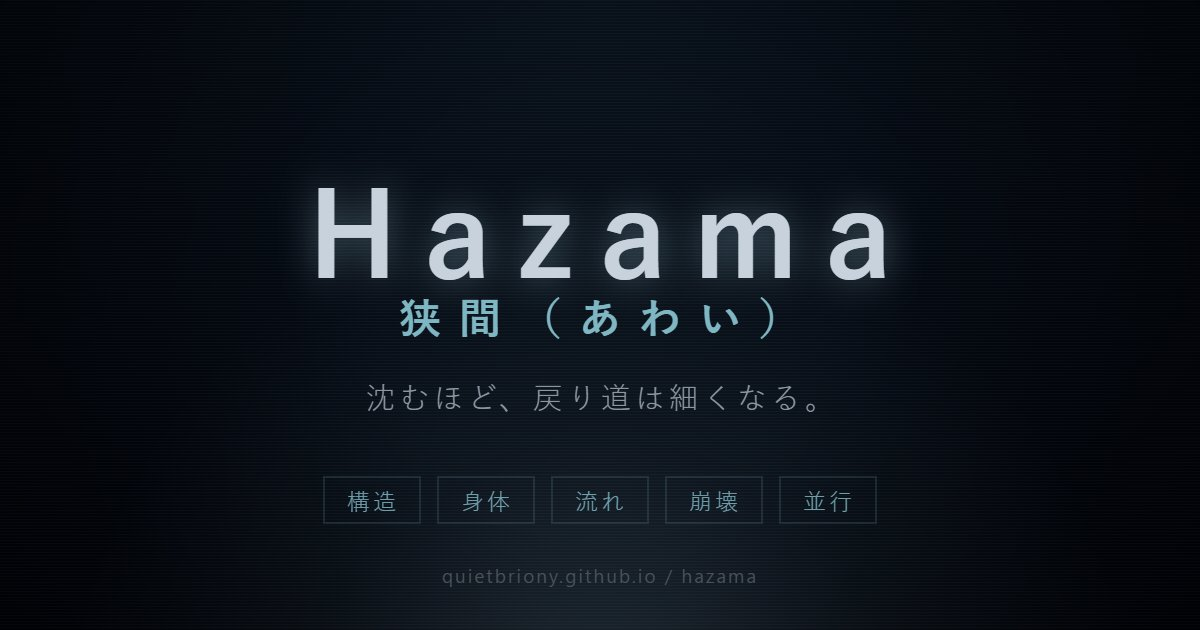
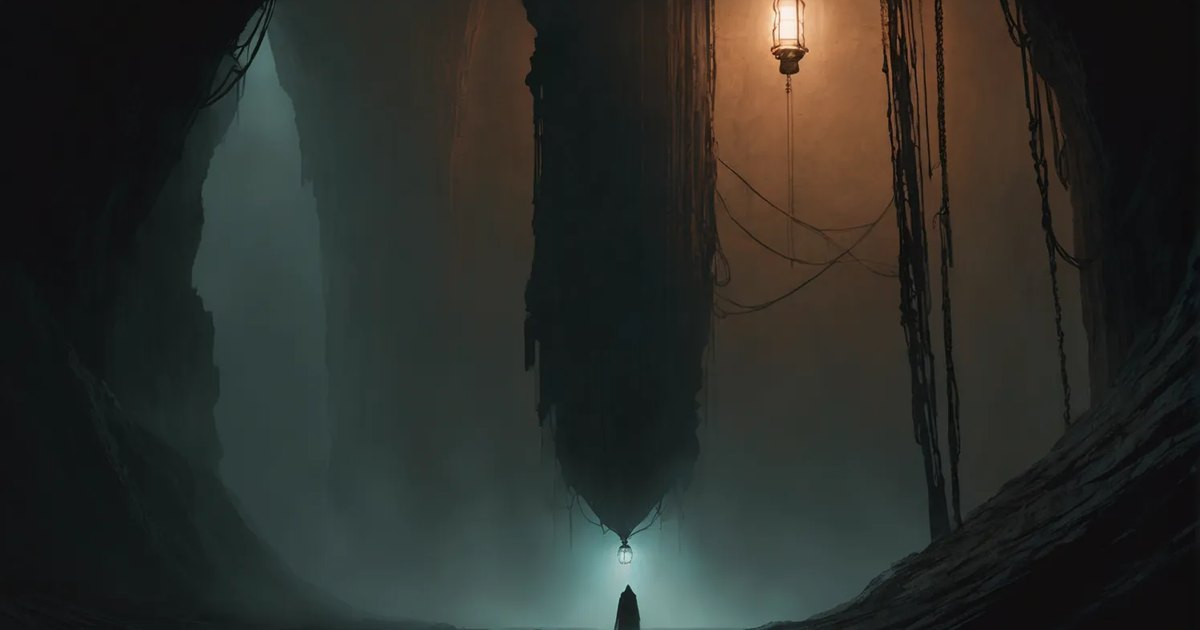
E30: OG 堅牢化＋E29 docs 追随（README 沿革/ledger/QA F37）
- og:image 先頭を 1200×630 JPG（assets/og-card.jpg・og:image:width/height 宣言）に
  ＝webp を読まない WhatsApp/旧クライアントでの共有プレビュー欠落を防ぐ（研究で特定した穴）。
  webp/png は後続フォールバック併記・twitter:image も og-card に。
- og-card.jpg を E29 hero(seed123) から再生成（旧 figurative 由来の stale を解消・LP と共有）。
- version e29→e30 四点同期・smoke E30 契約5件（og-card 実体/参照/寸法宣言/先頭順序）。
- docs 追随: README 構成+沿革（E29/E30）・SESSION-LEDGER 先頭・QA 正典 F37（降下の弧・37機能に）。

runtime 挙動不変（meta と docs のみ）。smoke 2 PASS / 0 FAIL。push は号令待ち。

diff --git a/index.html b/index.html
@@ -15,13 +15,19 @@
   <meta property="og:title" content="Hazama 狭間" />
   <meta property="og:description" content="沈むほど戻りにくい。認識が合う者だけがΩへ潜る、没入の降下対話。" />
   <meta property="og:url" content="https://quietbriony.github.io/hazama/" />
+  <!-- E30: 先頭は 1200×630 JPG（og-card・width/height 宣言）＝webp を読まない WhatsApp/旧クライアントでも
+       欠落しない。二枚目に hero webp、最後に png（icon-512）。LP と同じ og-card を共有（中身は E29 hero 由来）。 -->
+  <meta property="og:image" content="https://quietbriony.github.io/hazama/assets/og-card.jpg" />
+  <meta property="og:image:width" content="1200" />
+  <meta property="og:image:height" content="630" />
   <meta property="og:image" content="https://quietbriony.github.io/hazama/assets/hazama-descent-key.webp" />
   <meta property="og:image" content="https://quietbriony.github.io/hazama/icons/icon-512.png" />
   <meta name="twitter:card" content="summary_large_image" />
+  <meta name="twitter:image" content="https://quietbriony.github.io/hazama/assets/og-card.jpg" />
   <link rel="manifest" href="manifest.webmanifest" />
   <link rel="apple-touch-icon" href="icons/apple-touch-icon.png" />
   <link rel="icon" type="image/png" sizes="192x192" href="icons/icon-192.png" />
-  <link rel="stylesheet" href="slice.css?v=e29" />
+  <link rel="stylesheet" href="slice.css?v=e30" />
 </head>
 <body data-phase="surface">
   <div class="hz-bg" aria-hidden="true">
@@ -86,6 +92,6 @@
     </div>
   </div>
 
-  <script src="slice.js?v=e29"></script>
+  <script src="slice.js?v=e30"></script>
 </body>
 </html>

diff --git a/slice.js b/slice.js
@@ -2104,7 +2104,7 @@
 
   // ---------- 起動 ----------
   async function loadData() {
-    const res = await fetch("depths-shell.json?v=e29", { cache: "no-store" });
+    const res = await fetch("depths-shell.json?v=e30", { cache: "no-store" });
     DATA = await res.json();
   }
   // ---------- 動く表紙（R6：タイトルも state/seed に応じて動く・静止でない） ----------

diff --git a/sw.js b/sw.js
@@ -6,7 +6,7 @@
    - cache prefix=hazama-pwa- ＝旧 forward 版 cache(hazama-pwa-v2.45 等)を activate で掃除し更新。
 ========================================================= */
 
-const VERSION = "hazama-pwa-e29";
+const VERSION = "hazama-pwa-e30";
 const CACHE_PREFIX = "hazama-pwa-";
 const STATIC_CACHE = `${VERSION}-static`;
 const RUNTIME_CACHE = `${VERSION}-runtime`;

diff --git a/docs/autonomy/SESSION-LEDGER.md b/docs/autonomy/SESSION-LEDGER.md
@@ -19,6 +19,24 @@ Hazama 自律開発 session の追記専用ログ。
 
 ---
 
+## 2026-07-21 — 進化 E29 デプロイ済＋hotfix / E30 OG 堅牢化（実装/検証済み・号令待ち）
+- agent      : Fable（worker のローカル AI 画像工房を構築し「展開に合わせてキービジュアルを変化」を実装）
+- goal       : E29=背景キービジュアルが game 展開に連れて変化する「降下の弧」／E30=OG 共有プレビューの堅牢化
+- shipped    :
+  - **工房**（`tools/imagelab/`・runtime 非依存）: worker(RTX2070) に diffusers SDXL。txt2img 23秒/枚・
+    hybrid(Blender depth×ControlNet-small) 3.3分/枚・SSH 無人駆動・Codex 不要。庭(zouen)へも開通中（別セッション）
+  - **E29（デプロイ済・master 76a2e2a→hotfix 1aae79f）**: base の上に data-stage 4枚を重ね、既存
+    `--sink`/`data-phase`/`body.surfaced|omega` へ CSS opacity クロスフェード（JS 追加ゼロ・schema/保存不変・
+    base 常在で後方互換・reduced 対応）。画像は承認 hero(seed123) から img2img チェーン。hero も差し替え。
+    **hotfix**: base に承認外 txt2img 画が混入（worker の Copy-Item サイレント失敗＋変換後未検収）→承認版へ是正・
+    全5アセットを Read で全数目視検収。教訓=アセット置換は repo 内実物を見てからコミット
+  - **E30（号令待ち）**: og:image 先頭を 1200×630 JPG（og-card.jpg・width/height 宣言）に＝webp 非対応
+    クライアントの欠落対策。og-card は E29 hero から再生成し LP と共有。version e29→e30・smoke 契約5件
+- checks     : hazama-check 2 PASS / 0 FAIL（E29/E30 asserts 込み）。E29 は本番検証済（?v=e29 配信・全 asset 200・
+  各 phase で正しい1枚のみ表示・console 0）
+- next       : E30 push は号令待ち。QA F37（降下の弧）を正典に追加済み。実機の目=弧のクロスフェードの間
+- blockers   : E30 deploy 号令。human-gate=実機で弧の見え/hero 差し替えの感触
+
 ## 2026-07-16 — 進化 E28: 操作言語の統一（押下確定と focus 着地をエコー門・縁へ）（実装/検証済み・号令待ち）
 - agent      : Fable（「磨きあればやって」＝E25/E27 の残した不統一を是正）
 - goal       : 押下の確定感(E27)と focus 着地(E25)が renderChoices だけに効いていた＝エコー門(E3)と縁の二択(E1)が旧挙動のままの不統一を塞ぐ